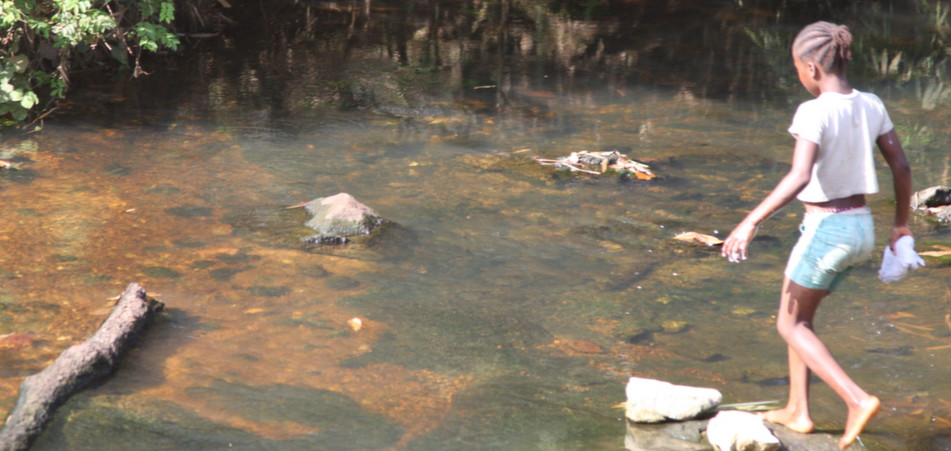
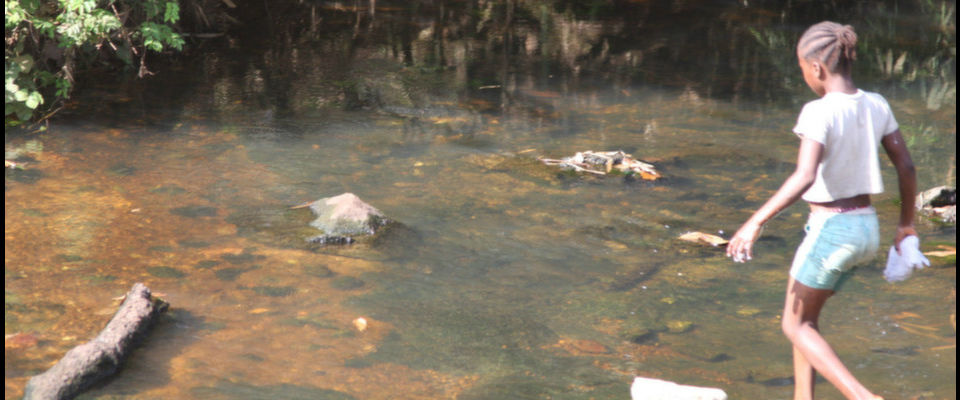
photo replacement

diff --git a/index.html b/index.html
@@ -104,31 +104,31 @@
 
     <div class="carousel-inner">
       <div class="item active">
-        <img src="javascripts/holder.js/960x400" class="img-responsive">
+        <img src="TedTalk.jpg" class="img-responsive">
         <div class='carousel-caption'>
           <h3>Our team has been active at Ted Talk X Conferences</h3>
         </div>
       </div>
       <div class="item">
-        <img src="javascripts/holder.js/960x400" class="img-responsive">
+        <img src="img_0462.jpg" class="img-responsive">
         <div class='carousel-caption'>
           <h3>Finding new opportunities for global partnerships</h3>
         </div>
       </div>
       <div class="item">
-        <img src="javascripts/holder.js/960x400" class="img-responsive">
+        <img src="Outofsurf.jpg" class="img-responsive">
         <div class='carousel-caption'>
           <h3>Discovering connections in education, environment, and business</h3>
         </div>
       </div>
       <div class="item">
-        <img src="javascripts/holder.js/960x400" class="img-responsive">
+        <img src="img_0906.jpg" class="img-responsive">
         <div class='carousel-caption'>
           <h3>Seeking results in new locations</h3>
         </div>
       </div>
       <div class="item">
-        <img src="javascripts/holder.js/960x400" class="img-responsive">
+        <img src="Matrix.jpg" class="img-responsive">
         <div class='carousel-caption'>
           <h3>Unique datasets and methodologies</h3>
         </div>
